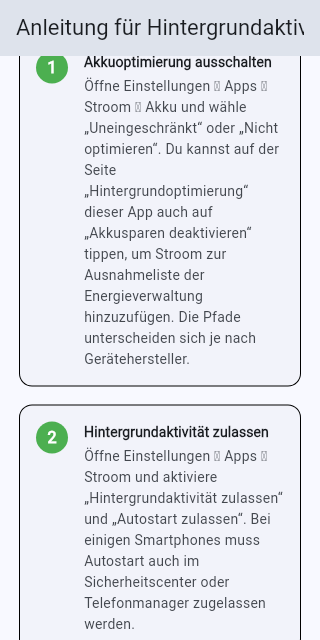
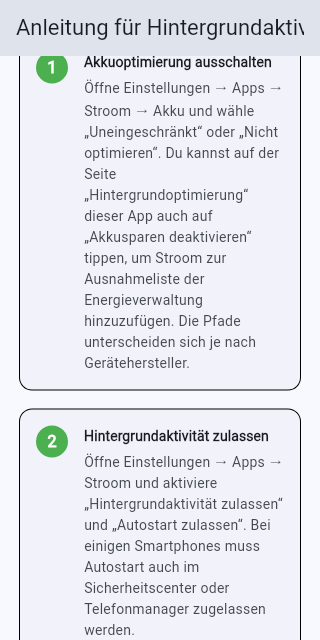
test(ui): render tutorial arrow glyphs in captures

Changed region(s): [[0.0625, 0.125, 0.9375, 1.0]]

diff --git a/tests/qa/round13_fixed_label_controls_test.dart b/tests/qa/round13_fixed_label_controls_test.dart
@@ -39,6 +39,7 @@ void main() {
     final theme = ThemeData(
       brightness: brightness,
       fontFamily: 'Roboto',
+      fontFamilyFallback: const ['Noto Sans Symbols'],
       useMaterial3: true,
       colorScheme: ColorScheme.fromSeed(
         seedColor: Colors.blue,
@@ -379,6 +380,11 @@ Future<void> _loadRobotoTestFont() async {
       'MaterialIcons',
       '$materialFontDirectory/MaterialIcons-Regular.otf',
       '$flutterRoot/bin/cache/dart-sdk/bin/resources/devtools/assets/fonts/MaterialIcons-Regular.otf',
+    ),
+    (
+      'Noto Sans Symbols',
+      '/usr/share/fonts/truetype/noto/NotoSansSymbols-Regular.ttf',
+      '/usr/share/fonts/truetype/dejavu/DejaVuSans.ttf',
     ),
   ]) {
     final path = File(font.$2).existsSync() ? font.$2 : font.$3;

diff --git a/docs/ui-constrained-text-qa/r13_fixed_label_controls/README.md b/docs/ui-constrained-text-qa/r13_fixed_label_controls/README.md
@@ -16,6 +16,6 @@ Production widgets rendered by `tests/qa/round13_fixed_label_controls_test.dart`
 | Tutorial step badges | 320 × 640 logical px, DPR 1 | de-DE | 1× | light | Pass; badges remain 32 × 32 dp | [PNG](tutorial-de-320x640-scale1-light.png) |
 | Tutorial step badges | 320 × 640 logical px, DPR 1 | de-DE | 2.5× | light | Pass; circular badges grow with the numeral | [PNG](tutorial-de-320x640-scale2_5-light.png) |
 
-These are Flutter rendered screenshots of the production pages/components in isolated, in-memory fixtures. The capture test loads the Flutter SDK's Roboto and Material Icons fonts, so these are not Ahem/fallback text captures. The Task Flow dropdown uses the theme body font family for its selected value, keeping that value legible in the production-font captures. Gallery providers return empty records and folders; the Task Flow editor has no blocks. The before image preserves the original header layout, regenerated with the same visible selected value; the after image comes from the focused regression test. The Task Flow regression also opens the input dropdown and selects Audio to verify its callback. No account data, persistence, camera, file picker, or network request is used.
+These are Flutter rendered screenshots of the production pages/components in isolated, in-memory fixtures. The capture test loads the Flutter SDK's Roboto and Material Icons fonts and the system Noto Sans Symbols font for the localized arrow glyphs, so these are not Ahem/fallback text captures. The Task Flow dropdown uses the theme body font family for its selected value, keeping that value legible in the production-font captures. Gallery providers return empty records and folders; the Task Flow editor has no blocks. The before image preserves the original header layout, regenerated with the same visible selected value; the after image comes from the focused regression test. The Task Flow regression also opens the input dropdown and selects Audio to verify its callback. No account data, persistence, camera, file picker, or network request is used.
 
 At 2.5×, the gallery and Add Block labels retain their one-line ConstrainedText treatment and scroll horizontally when their text exceeds the button's available width. The screenshots capture the stationary start state; widget assertions also verify that the complete German labels remain exposed to accessibility semantics.
